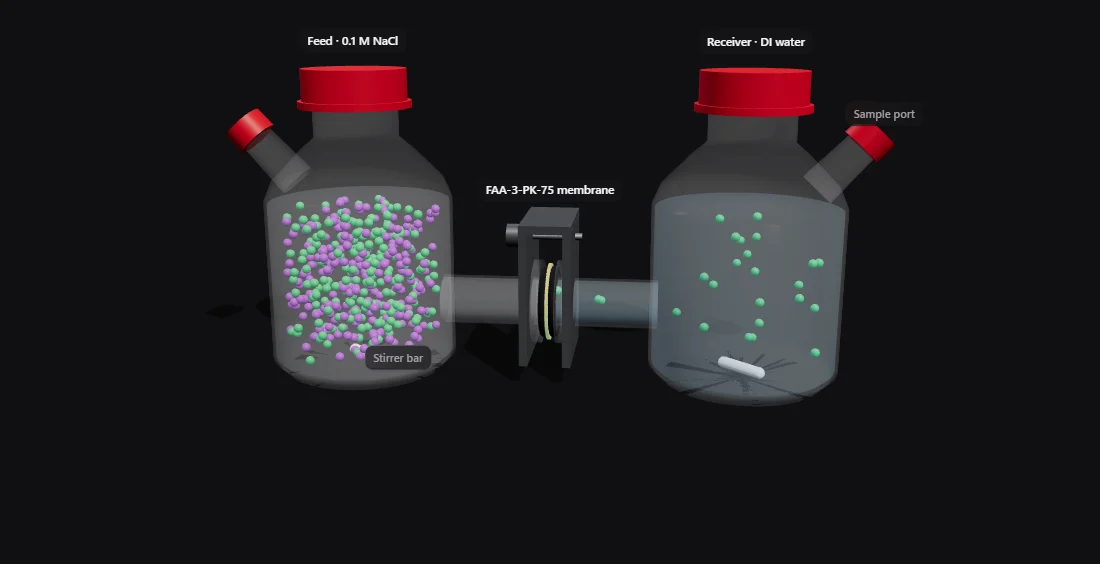
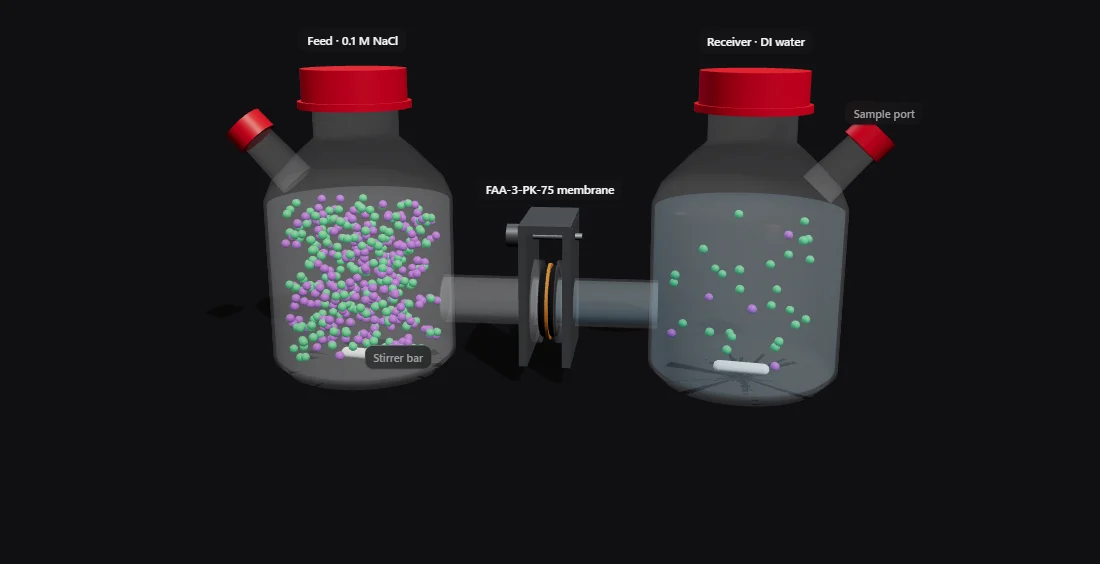
Membrane Science: bachelor's research wording, updated description and picture

Changed region(s): [[0.2473, 0.3316, 0.4018, 0.6631], [0.5873, 0.3617, 0.7727, 0.6631], [0.4945, 0.4823, 0.5564, 0.6028]]

diff --git a/index.html b/index.html
@@ -186,12 +186,12 @@
               <div class="tile-copy">
                 <p class="tile-eyebrow">three.js · English, Türkçe &amp; Arabic</p>
                 <h3 class="tile-title">Membrane Science</h3>
-                <p class="tile-text">My university research on blue energy: chloride crossing an anion exchange membrane, replayed in 3D from our real lab data.</p>
+                <p class="tile-text">My bachelor's research project on blue energy: chloride crossing an anion exchange membrane, replayed in 3D from our real lab data.</p>
                 <span class="tile-more">Learn more <span aria-hidden="true">›</span></span>
               </div>
               <div class="tile-visual">
                 <div class="shot shot-window">
-                  <img src="assets/membrane-science.webp" width="1100" height="564" loading="lazy" alt="A 3D diffusion cell: two glass bottles with red caps joined by a clamped membrane; green chloride ions have crossed into the right bottle while purple sodium ions stay on the left.">
+                  <img src="assets/membrane-science.webp" width="1100" height="564" loading="lazy" alt="A 3D diffusion cell: two glass bottles with red caps joined by a clamped membrane; green chloride ions have crossed into the right bottle with only a few purple sodium ions, while most sodium stays on the left.">
                 </div>
               </div>
             </a>
@@ -343,11 +343,11 @@
 
   <template id="t-membrane" data-eyebrow="three.js · WebGL · English, Türkçe &amp; Arabic" data-title="Membrane Science">
     <figure class="sheet-figure"><img src="assets/membrane-science.webp" width="1100" height="564" alt="The 3D two-compartment diffusion cell near the end of the 180-minute run."></figure>
-    <p class="sheet-lede">An introduction to membrane science and blue energy, built around our research project ATÜ-LAP-2526-07 at Atılım University with Saed Wael Suleiman, under the guidance and supervision of Assoc. Prof. Dr. Enver Güler.</p>
+    <p class="sheet-lede">An introduction to membrane science and blue energy, built around our bachelor's student research project ATÜ-LAP-2526-07 at Atılım University with Saed Wael Suleiman, under the guidance and supervision of Assoc. Prof. Dr. Enver Güler.</p>
     <h3>Highlights</h3>
     <ul class="sheet-list">
-      <li>A 3D diffusion cell that replays our measured 180 minutes in 10 seconds, then runs a hypothetical 10 seconds to equilibrium: Cl⁻ crosses the Fumasep FAA-3-PK-75 membrane, Na⁺ is turned back.</li>
-      <li>Live readouts and a chart from the real data: D = 2.40 × 10⁻¹¹ m²/s, separation efficiency above 99.3%.</li>
+      <li>A 3D diffusion cell that replays our measured 180 minutes in 10 seconds, then runs a hypothetical 10 seconds to equilibrium: Cl⁻ crosses the Fumasep FAA-3-PK-75 membrane while most Na⁺ is turned back at its surface.</li>
+      <li>Live readouts and a chart from the real data, an apparent salt diffusion coefficient of about 2.2–2.4 × 10⁻¹¹ m²/s, and the next steps for 2026–27.</li>
       <li>A textbook-level introduction to membranes, and how the Netherlands, Italy, Norway and Japan have tried salinity-gradient power.</li>
       <li>A 3D bench-scale RED trial rig for our 2026–27 project, with an exploded stack and moving ions.</li>
     </ul>
